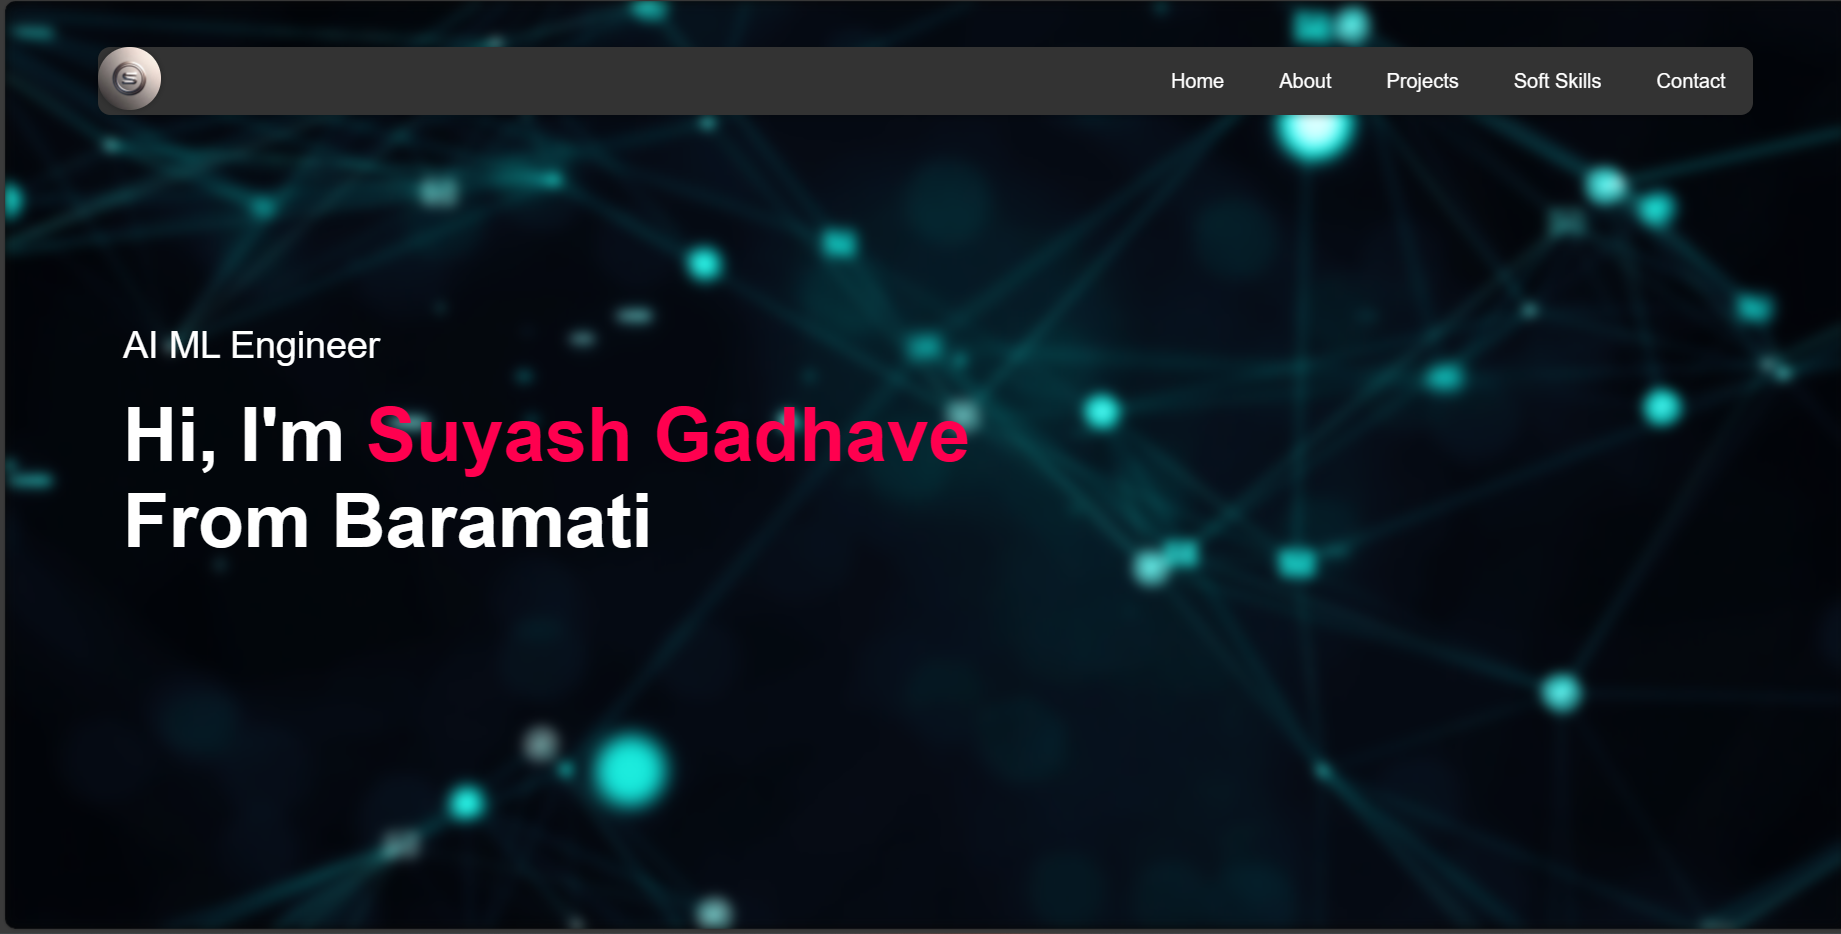
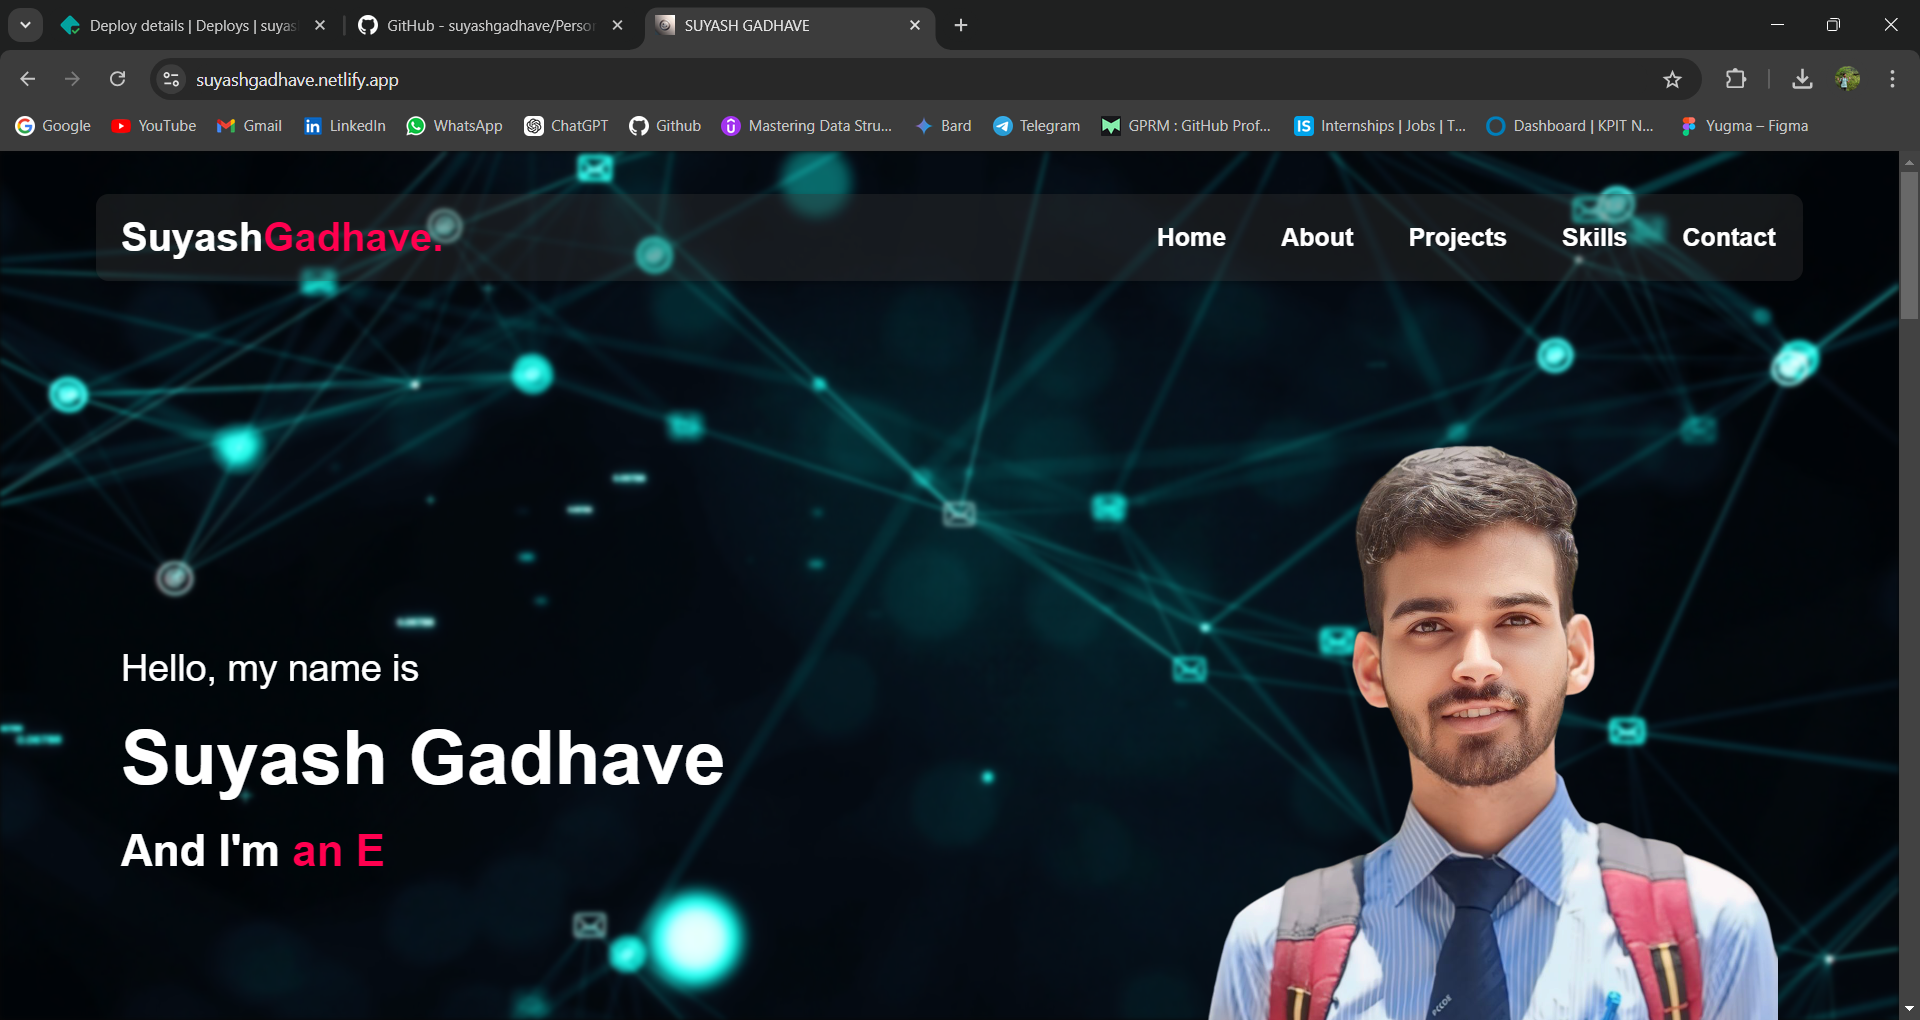
updated portfolio

diff --git a/index.html b/index.html
@@ -4,11 +4,18 @@
 <head>
     <meta charset="UTF-8" />
     <meta name="viewport" content="width=device-width, initial-scale=1.0" />
-    <title>Personal Portfolio Website</title>
+    <title>SUYASH GADHAVE</title>
     <link rel="stylesheet" href="style.css" />
     <link rel="icon" href="images\yti3.png" type="image/x-icon">
     <link rel="shortcut icon" href="images\yti3.png" type="image/x-icon">
     <script src="https://kit.fontawesome.com/4de9d02978.js" crossorigin="anonymous"></script>
+    <script type="text/javascript" src="https://cdn.emailjs.com/dist/email.min.js"></script>
+<script type="text/javascript">
+    (function(){
+        emailjs.init("oDWKuuGP8lQiXPDgx"); 
+    })();
+</script>
+
 </head>
 
 <body>
@@ -23,24 +30,34 @@
                 <div class="container">
                     <nav class="navbar">
                         <div class="navbar-left">
-                            <img src="images/yti3.png" alt="" />
+                            <div class="width-33 logo">
+                                <span class="suyash">Suyash</span><span class="gadhave">Gadhave.</span>
+                            </div>
                         </div>
+
+
                         <div class="navbar-right">
                             <i class="fa-solid fa-bars" onclick="openmenu()"></i>
                             <ul class="navbar-links">
                                 <li><a href="#home">Home</a></li>
                                 <li><a href="#about">About</a></li>
                                 <li><a href="#services">Projects</a></li>
-                                <li><a href="#portfolio">Soft Skills</a></li>
+                                <li><a href="#portfolio">Skills</a></li>
                                 <li><a href="#contact">Contact</a></li>
                                 <i class="fa-solid fa-xmark" onclick="closemenu()"></i>
                             </ul>
                         </div>
                     </nav>
-                    <div class="header-text">
-                        <p>AI ML Engineer</p>
-                        <h1>Hi, I'm <span>Suyash Gadhave</span><br />From Baramati</h1>
+
+                    <div class="intro">
+                        <div class="header-text">
+                            <p>Hello, my name is</p>
+                            <h1>Suyash Gadhave</h1>
+                            <h3>And I'm <span class="typing-effect"></span></h3>
+                        </div>
+                        <img src="images\Suyash_pic.png" alt="Suyash Gadhave" class="header-image">
                     </div>
+
                 </div>
             </div>
 
@@ -63,12 +80,11 @@
                 <div class="about-col-2">
                     <h1 class="sub-title">About Me</h1>
                     <p class="abb">
-                        Hello! I'm Suyash Sanjay Gadhave, Currently pursuing B. Tech. in Computer Science & Engineering
-                        with specialization in Artificial Intelligence and Machine Learning at Pimpri Chinchwad College
-                        of Engineering (PCCOE), Pune with a keen interest in Web Development and Artificial Intelligence
-                        & Machine Learning (AI/ML). I'm passionate about crafting innovative solutions in both these
-                        dynamic fields. I aspire to create impactful applications that blend cutting-edge technology
-                        with user-centric design.
+                        Hello! I'm Suyash Gadhave, Currently pursuing B. Tech. in Computer Science & Engineering (Artificial 
+                        Intelligence and Machine Learning) at Pimpri Chinchwad College of Engineering (PCCOE), Pune 
+                        with a keen interest in Web Development, Data Science & Machine Learning. I'm passionate about 
+                        crafting innovative solutions in both these dynamic fields. I aspire to create impactful applications 
+                        that blend cutting-edge technology with user-centric design.
                     </p>
 
                     <div class="rrow">
@@ -76,13 +92,13 @@
                             <P class="lefthead">Education</P>
                             <div class="edu">
                                 <ul>
-                                    <li>
-                                        <span>2025</span><br />B. Tech CSE ( AI & ML ) at PCCOE,
+                                    <li style="margin-top: 15px;">
+                                        <span style="color: aquamarine; font-weight: bold;">2025</span><br />B. Tech CSE ( AI & ML ) at PCCOE,
                                         Pune.
                                     </li>
                                     <br>
                                     <li>
-                                        <span>2021</span><br />HSC at VPASC,Baramati
+                                        <span style="color: aquamarine; font-weight: bold;">2021</span><br />HSC at VPASC,Baramati
                                     </li>
                                 </ul>
                             </div>
@@ -90,16 +106,20 @@
 
                         <div class="right">
                             <div class="righthead">
-                                <p>Experience</p>
+                                <p>Recent Work Experience</p>
                             </div>
                             <div class="exp">
                                 <ul>
-                                    <li>
-                                        <span>2021 - Current</span><br />Engineering student
+                                    <li style="margin-top: 15px;">
+                                        <span style="color: rgb(81, 223, 114);">July 2024 - August 2024</span><br/>
+                                        <h3 style="margin-top: 5px;">Celebal Technologies Pvt.  ltd.</h3><br />
+                                        <h4 style="margin-top: -10px; margin-bottom: -10px;">Data Science Intern</h4><br />
+                                        Conducted data analysis and contributed to machine learning model development<br />
                                     </li>
                                 </ul>
                             </div>
                         </div>
+                        
 
                     </div>
                 </div>
@@ -109,18 +129,17 @@
 
         <div id="services">
             <div class="container">
-                <h1 class="sub-title">My Projects</h1>
+                <h1 class="sub-title" style="text-align: center;">My Projects</h1>
                 <div class="services-list">
                     <div>
                         <i class="fa-solid fa-code"></i>
                         <h2>CourseConnect</h2>
                         <p>
-                            Deneloped a web-based Courne Recommendation System, empowering learners to navigate
-                            the vast world of online courses. This innovative platform offers personalized suggestions,
+                            Developed a web-based Courne Recommendation System, this platform offers personalized suggestions,
                             detailed course information, and a comprehemine comparative feature, ensuring learners
                             make informed decisions about their educational journey.
                         </p>
-                        <a href="https://github.com/suyashgadhave/CourseConnect">Learn More</a>
+                        <a href="https://github.com/suyashgadhave/CourseConnect" target="_blank">Learn More</a>
                     </div>
                     <div>
                         <i class="fa-solid fa-crop-simple"></i>
@@ -129,7 +148,7 @@
                             Developed a user friendly web based application for hospital management, enabling
                             contactless patient registration to enhance patient safety and operational efficiency.
                         </p>
-                        <a href="https://github.com/suyashgadhave/EchoCare">Learn More</a>
+                        <a href="https://github.com/suyashgadhave/EchoCare" target="_blank">Learn More</a>
                     </div>
                     <div>
                         <i class="fa-solid fa-laptop-code"></i>
@@ -139,11 +158,11 @@
                             classes and functions to handle flight schedules, flight details, passenger details, and
                             billing.
                         </p>
-                        <a href="https://github.com/suyashgadhave/AeroBook-Airline-reservation-system">Learn More</a>
+                        <a href="https://github.com/suyashgadhave/AeroBook-Airline-reservation-system" target="_blank">Learn More</a>
                     </div>
                 </div>
-                <p>
-                    <a href="https://github.com/suyashgadhave?tab=repositories" class="btn">See More</a>
+                <p style="margin-top: -20px;">
+                    <a href="https://github.com/suyashgadhave?tab=repositories" class="btn" target="_blank">See More</a>
                 </p>
             </div>
         </div>
@@ -151,86 +170,118 @@
 
     <div id="portfolio">
         <div class="container">
-            <h1 class="sub-title">Soft Skills</h1>
-            <div class="work-list">
-                <div class="work">
-                    <img src="images/webd.jpg" height="250px" />
-                    <div class="layer">
+            <h1 class="sub-title" style="text-align: center; margin-top: 120px; ">Skills</h1>
+            <div class="work-list" style="margin: 20px; margin-top: 35px;">
+                <!-- First Card: Web Development -->
+                <div class="card">
+                    <div class="card-content">
                         <h3>Web Development</h3>
                         <p>
                             HTML5<br>
                             CSS3<br>
                             JavaScript<br>
+                            React<br>
+                            NodeJS<br>
+                            Express<br>
                         </p>
-                        <a href=""><i class="fa-solid fa-arrow-up-right-from-square"></i></a>
                     </div>
                 </div>
-                <div class="work">
-                    <img src="images/clang.jpg" height="250px" />
-                    <div class="layer">
+                 
+                <!-- Second Card: Languages -->
+                <div class="card">
+                    <div class="card-content">
+                        <h3>Coursework</h3>
+                        <p>
+                            Data Science<br>
+                            Machine Learning<br>
+                            Data Structures & Algorithms<br>
+                            DBMS<br>
+                            Operating System<br>
+                            OOP
+                        </p>
+                    </div>
+                </div>
+
+                <!-- Third Card: More Skills -->
+                <div class="card">
+                    <div class="card-content">
+                        <h3>Data Science</h3>
+                        <p>
+                            Numpy<br>
+                            Pandas<br>
+                            Scikit-learn<br>
+                            Tenserflow<br>
+                            Tableau<br>
+                            NLTK<br>
+                        </p>
+                    </div>
+                </div>
+                <!-- Fourth Card: Web Development -->
+                <div class="card">
+                    <div class="card-content">
                         <h3>Languages</h3>
                         <p>
                             C<br>
                             C++<br>
                             Python<br>
+                            JavaScript
                         </p>
-                        <a href=""><i class="fa-solid fa-arrow-up-right-from-square"></i></a>
                     </div>
                 </div>
-                <div class="work">
-                    <img src="images/work3.jpg" height="250px" />
-                    <div class="layer">
-                        <h3>More</h3>
+
+                <!-- Fifth Card: Languages -->
+                <div class="card">
+                    <div class="card-content">
+                        <h3>Other</h3>
                         <p>
-                            Machine Learning<br>
-                            Data Science<br>
-                            DSA<br>
-                            OOP<br>
+                            Git<br>
+                            Github<br>
+                            MongoDB<br>
+                            AWS<br>
                         </p>
-                        <a href=""><i class="fa-solid fa-arrow-up-right-from-square"></i></a>
                     </div>
                 </div>
             </div>
-            <a href="#" class="btn">See More</a>
         </div>
     </div>
-
+    
     <div id="contact">
-        <div class="container">
+        <div class="container" style="margin-top: 150px;">
             <div class="row">
                 <div class="contact-left">
                     <h1 class="sub-title">Contact Me</h1>
                     <p><i class="fa-solid fa-envelope"></i>suyashgadhave2509@gmail.com</p>
                     <p><i class="fa-solid fa-phone"></i>9890524895</p>
                     <div class="social-icons">
-                        <a href=""><i class="fa-brands fa-linkedin"></i></a>
-                        <a href=""><i class="fa-brands fa-square-instagram"></i></a>
-                        <a href=""><i class="fa-brands fa-square-x-twitter"></i></a>
-                        <a href=""><i class="fa-brands fa-facebook"></i></a>
+                        <a href="https://www.linkedin.com/in/suyash-gadhave-59778422a" target="_blank"><i class="fa-brands fa-linkedin"></i></a>
+                        <a href="https://www.instagram.com/_._._suyash_._._/" target="_blank"><i class="fa-brands fa-square-instagram"></i></a>
+                        <a href="https://x.com/_Suyash_Gadhave" target="_blank"><i class="fa-brands fa-square-x-twitter"></i></a>
+                        <a href="https://www.facebook.com/suyash.gadhave.71/" target="_blank"><i class="fa-brands fa-facebook"></i></a>
                     </div>
                     <a href="images/resume.pdf" download class="btn btn2">Download CV</a>
                 </div>
                 <div class="contact-right">
-                    <form action="">
+                    <form id="contact-form">
                         <input type="text" name="name" placeholder="Your Name" required />
                         <input type="email" name="email" placeholder="Your Email" required />
-                        <textarea name="message" rows="6" placeholder="Your Message"></textarea>
+                        <textarea name="message" rows="6" placeholder="Your Message" required></textarea>
                         <button type="submit" class="btn btn2">Submit</button>
-                    </form>
+                    </form>                    
                 </div>
             </div>
         </div>
         <div class="copyright">
             <p>
                 Copyright &copy; Suyash. Made with
-                <i class="fa-solid fa-heart fa-beat"></i> by Suyash with help of
-                GreatStack
+                <i class="fa-solid fa-heart fa-beat"></i> by Suyash Gadhave.
             </p>
         </div>
     </div>
 
 
-    <script>
+    <script type="text/javascript">
+
+        // slider
         var sidemenu = document.getElementById("sidemenu");
         function openmenu() {
             sidemenu.style.right = "0";
@@ -247,6 +298,58 @@
         slider.addEventListener('mouseout', () => {
             slider.style.animation = '';
         });
+
+
+
+        // typing
+        const typedWords = ['a Developer', 'a Student', 'an Engineer', 'a Designer'];
+        let currentWordIndex = 0;
+        let currentCharIndex = 0;
+        let isDeleting = false;
+        const typingSpeed = 100; // typing speed in milliseconds
+        const pauseBetweenWords = 2000; // pause between words
+
+        function typeWords() {
+            const targetElement = document.querySelector('.typing-effect');
+            const currentWord = typedWords[currentWordIndex];
+
+            if (isDeleting) {
+                targetElement.innerHTML = currentWord.substring(0, currentCharIndex--);
+                if (currentCharIndex < 0) {
+                    isDeleting = false;
+                    currentWordIndex = (currentWordIndex + 1) % typedWords.length; // move to next word
+                    setTimeout(typeWords, typingSpeed);
+                } else {
+                    setTimeout(typeWords, typingSpeed / 2); // speed up the backspace
+                }
+            } else {
+                targetElement.innerHTML = currentWord.substring(0, currentCharIndex++);
+                if (currentCharIndex > currentWord.length) {
+                    isDeleting = true;
+                    setTimeout(typeWords, pauseBetweenWords); // pause after word is typed
+                } else {
+                    setTimeout(typeWords, typingSpeed);
+                }
+            }
+        }
+
+        document.addEventListener("DOMContentLoaded", function () {
+            typeWords();
+        });
+
+
+        // EmailJS
+        document.getElementById('contact-form').addEventListener('submit', function(event) {
+        event.preventDefault();
+        
+        emailjs.sendForm('service_dgpolj9', 'template_c0aobun', this)
+            .then(function() {
+                alert('Message sent successfully!');
+            }, function(error) {
+                alert('Failed to send message. Please try again later.');
+            });
+    });
+
     </script>
 </body>
 
